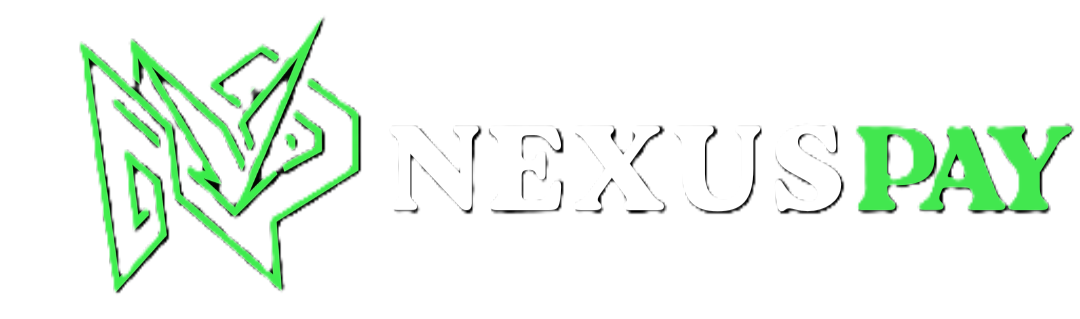
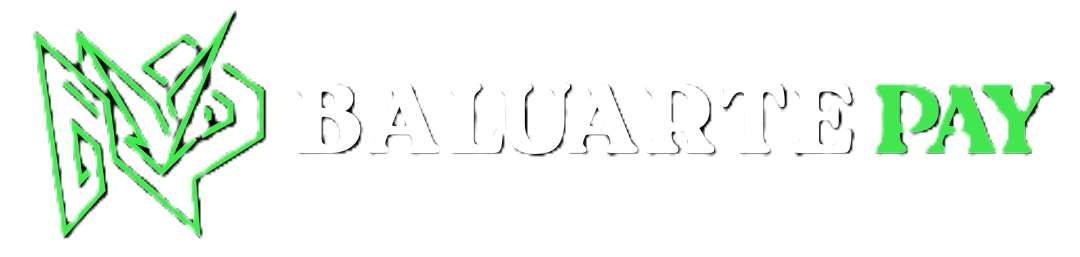
baluaartpauyi

Changed region(s): [[0.0306, 0.0311, 1.0, 0.9339], [0.3667, 0.6537, 0.3972, 0.6848]]

diff --git a/script.js b/script.js
@@ -533,7 +533,7 @@ if(!prefersReducedMotion){
       'hero.subhead':'Integre nosso gateway de pagamento com segurança de ponta e processe transações na velocidade da luz.',
       'hero.cta':'Comece Agora',
       'hero.docs':'Ver Documentação',
-      'features.title':'Por que NexusPay',
+      'features.title':'Por que Baluarte Pay',
       'features.cards.security.title':'Segurança de Nível Superior',
       'features.cards.security.text':'Criptografia avançada, detecção de fraude em tempo real e conformidade total com PCI DSS.',
       'features.cards.speed.title':'Velocidade de Transação',
@@ -544,17 +544,17 @@ if(!prefersReducedMotion){
       'features.cards.fees.text':'Sem surpresas: preços claros, relatórios detalhados e otimização de custos.',
       'how.title':'Como Funciona',
       'how.diagram.checkout':'Checkout',
-      'how.diagram.nexus':'NexusPay',
+      'how.diagram.nexus':'Baluarte Pay',
       'how.diagram.bank':'Banco',
       'testimonials.title':'O que dizem nossos clientes',
-      'testimonials.1.text':'“Aumentamos a taxa de aprovação em 14% com a NexusPay. Integração simples e performance incrível.”',
+      'testimonials.1.text':'“Aumentamos a taxa de aprovação em 14% com a Baluarte Pay. Integração simples e performance incrível.”',
       'testimonials.1.author':'Marina Alves — CTO, LumenShop',
       'testimonials.2.text':'“Suporte impecável e uma plataforma robusta. A latência caiu drasticamente.”',
       'testimonials.2.author':'Rafael Costa — Head de Pagamentos, VelozBank',
       'testimonials.3.text':'“Transparência nas taxas e dashboards completos. Decisão fácil para nosso time.”',
       'testimonials.3.author':'Ana Ribeiro — CFO, NovaMarket',
       'cta.title':'Pronto para acelerar seus pagamentos?',
-      'cta.text':'Integre o NexusPay hoje mesmo e ofereça a melhor experiência para seus clientes.',
+      'cta.text':'Integre o Baluarte Pay hoje mesmo e ofereça a melhor experiência para seus clientes.',
       'cta.docs':'Ver Documentação',
       'contact.title':'Entre em Contato',
       'contact.subtitle':'Envie uma mensagem e retornaremos rapidamente pelo WhatsApp.',
@@ -570,7 +570,7 @@ if(!prefersReducedMotion){
       'footer.terms':'Termos',
       'footer.privacy':'Privacidade',
       'footer.status':'Status',
-      'footer.copyright':' 2023 NexusPay. Todos os direitos reservados.'
+      'footer.copyright':' 2023 Baluarte Pay. Todos os direitos reservados.'
     },
     en: {
       'nav.features':'Features',
@@ -582,7 +582,7 @@ if(!prefersReducedMotion){
       'hero.subhead':'Integrate our payment gateway with top-tier security and process transactions at the speed of light.',
       'hero.cta':'Get Started',
       'hero.docs':'See Docs',
-      'features.title':'Why NexusPay',
+      'features.title':'Why Baluarte Pay',
       'features.cards.security.title':'Enterprise-grade Security',
       'features.cards.security.text':'Advanced encryption, real-time fraud detection, and full PCI DSS compliance.',
       'features.cards.speed.title':'Transaction Speed',
@@ -593,17 +593,17 @@ if(!prefersReducedMotion){
       'features.cards.fees.text':'No surprises: clear pricing, detailed reports, and cost optimization.',
       'how.title':'How It Works',
       'how.diagram.checkout':'Checkout',
-      'how.diagram.nexus':'NexusPay',
+      'how.diagram.nexus':'Baluarte Pay',
       'how.diagram.bank':'Bank',
       'testimonials.title':'What our customers say',
-      'testimonials.1.text':'“We increased approval rate by 14% with NexusPay. Simple integration and amazing performance.”',
+      'testimonials.1.text':'“We increased approval rate by 14% with Baluarte Pay. Simple integration and amazing performance.”',
       'testimonials.1.author':'Marina Alves — CTO, LumenShop',
       'testimonials.2.text':'“Impeccable support and a robust platform. Latency dropped drastically.”',
       'testimonials.2.author':'Rafael Costa — Head of Payments, VelozBank',
       'testimonials.3.text':'“Transparent fees and complete dashboards. An easy decision for our team.”',
       'testimonials.3.author':'Ana Ribeiro — CFO, NovaMarket',
       'cta.title':'Ready to accelerate your payments?',
-      'cta.text':'Integrate NexusPay today and deliver the best experience to your customers.',
+      'cta.text':'Integrate Baluarte Pay today and deliver the best experience to your customers.',
       'cta.docs':'See Docs',
       'contact.title':'Get in touch',
       'contact.subtitle':'Send a message and we will quickly reply via WhatsApp.',
@@ -619,7 +619,7 @@ if(!prefersReducedMotion){
       'footer.terms':'Terms',
       'footer.privacy':'Privacy',
       'footer.status':'Status',
-      'footer.copyright':' 2023 NexusPay. All rights reserved.'
+      'footer.copyright':' 2023 Baluarte Pay. All rights reserved.'
     },
     es: {
       'nav.features':'Recursos',
@@ -631,7 +631,7 @@ if(!prefersReducedMotion){
       'hero.subhead':'Integra nuestro gateway de pago con seguridad de primer nivel y procesa transacciones a la velocidad de la luz.',
       'hero.cta':'Comenzar',
       'hero.docs':'Ver Documentación',
-      'features.title':'Por qué NexusPay',
+      'features.title':'Por qué Baluarte Pay',
       'features.cards.security.title':'Seguridad de nivel superior',
       'features.cards.security.text':'Cifrado avanzado, detección de fraude en tiempo real y cumplimiento total de PCI DSS.',
       'features.cards.speed.title':'Velocidad de transacción',
@@ -642,17 +642,17 @@ if(!prefersReducedMotion){
       'features.cards.fees.text':'Sin sorpresas: precios claros, informes detallados y optimización de costos.',
       'how.title':'Cómo funciona',
       'how.diagram.checkout':'Checkout',
-      'how.diagram.nexus':'NexusPay',
+      'how.diagram.nexus':'Baluarte Pay',
       'how.diagram.bank':'Banco',
       'testimonials.title':'Qué dicen nuestros clientes',
-      'testimonials.1.text':'“Aumentamos la tasa de aprobación en 14% con NexusPay. Integración simple y rendimiento increíble.”',
+      'testimonials.1.text':'“Aumentamos la tasa de aprobación en 14% con Baluarte Pay. Integración simple y rendimiento increíble.”',
       'testimonials.1.author':'Marina Alves — CTO, LumenShop',
       'testimonials.2.text':'“Soporte impecable y una plataforma robusta. La latencia cayó drásticamente.”',
       'testimonials.2.author':'Rafael Costa — Head de Pagos, VelozBank',
       'testimonials.3.text':'“Transparencia en tarifas y paneles completos. Decisión fácil para nuestro equipo.”',
       'testimonials.3.author':'Ana Ribeiro — CFO, NovaMarket',
       'cta.title':'¿Listo para acelerar tus pagos?',
-      'cta.text':'Integra NexusPay hoy y ofrece la mejor experiencia a tus clientes.',
+      'cta.text':'Integra Baluarte Pay hoy y ofrece la mejor experiencia a tus clientes.',
       'cta.docs':'Ver Documentación',
       'contact.title':'Ponte en contacto',
       'contact.subtitle':'Envíanos un mensaje y responderemos rápidamente por WhatsApp.',
@@ -668,7 +668,7 @@ if(!prefersReducedMotion){
       'footer.terms':'Términos',
       'footer.privacy':'Privacidad',
       'footer.status':'Estado',
-      'footer.copyright':' 2023 NexusPay. Todos los derechos reservados.'
+      'footer.copyright':' 2023 Baluarte Pay. Todos los derechos reservados.'
     }
   }
 

diff --git a/index.html b/index.html
@@ -4,8 +4,8 @@
   <meta charset="UTF-8" />
   <meta name="viewport" content="width=device-width, initial-scale=1.0" />
   <meta http-equiv="X-UA-Compatible" content="IE=edge" />
-  <title>NexusPay — O Futuro das Transações</title>
-  <meta name="description" content="NexusPay: gateway de pagamento com segurança de ponta, velocidade extrema e tecnologia futurista." />
+  <title>Baluarte Pay — O Futuro das Transações</title>
+  <meta name="description" content="Baluarte Pay: gateway de pagamento com segurança de ponta, velocidade extrema e tecnologia futurista." />
   <link rel="preconnect" href="https://fonts.googleapis.com">
   <link rel="preconnect" href="https://fonts.gstatic.com" crossorigin>
   <link href="https://fonts.googleapis.com/css2?family=Inter:wght@300;400;500;600&family=Orbitron:wght@600;800&display=swap" rel="stylesheet">
@@ -15,7 +15,7 @@
 <body>
   <!-- Preloader -->
   <div id="preloader">
-    <img src="IMG/NEXUS PAY.png" alt="NexusPay" class="preloader-logo" />
+    <img src="IMG/NEXUS PAY.png" alt="Baluarte Pay" class="preloader-logo" />
     <div class="glitch-line"></div>
   </div>
 
@@ -26,7 +26,7 @@
   <header>
     <div class="container">
       <div class="brand">
-        <img src="IMG/NEXUS PAY.png" alt="NexusPay logo" class="logo" />
+        <img src="IMG/NEXUS PAY.png" alt="Baluarte Pay logo" class="logo" />
       </div>
       <button class="mobile-menu-toggle" aria-label="Abrir menu" aria-expanded="false">
         <img src="menu.png" alt="Menu" class="menu-icon">
@@ -86,7 +86,7 @@
 
   <!-- Features -->
   <section class="features container" id="features">
-    <h2 class="section-title" data-animate data-i18n="features.title">Por que NexusPay</h2>
+    <h2 class="section-title" data-animate data-i18n="features.title">Por que Baluarte Pay</h2>
     <div class="cards">
       <article class="card" data-animate>
         <div class="icon neon">
@@ -147,7 +147,7 @@
           </g>
           <g fill="#FFFFFF">
             <text x="110" y="118" text-anchor="middle" class="node-label" data-i18n="how.diagram.checkout">Checkout</text>
-            <text x="400" y="118" text-anchor="middle" class="node-label" data-i18n="how.diagram.nexus">NexusPay</text>
+            <text x="400" y="118" text-anchor="middle" class="node-label" data-i18n="how.diagram.nexus">Baluarte Pay</text>
             <text x="690" y="118" text-anchor="middle" class="node-label" data-i18n="how.diagram.bank">Banco</text>
           </g>
         </svg>
@@ -182,7 +182,7 @@ console.log(result.status) // 'authorized'</code></pre>
         <button class="nav prev" aria-label="Anterior">&#10094;</button>
         <div class="track">
           <div class="slide active">
-            <p data-i18n="testimonials.1.text">“Aumentamos a taxa de aprovação em 14% com a NexusPay. Integração simples e performance incrível.”</p>
+            <p data-i18n="testimonials.1.text">“Aumentamos a taxa de aprovação em 14% com a Baluarte Pay. Integração simples e performance incrível.”</p>
             <div class="author" data-i18n="testimonials.1.author">Marina Alves — CTO, LumenShop</div>
           </div>
           <div class="slide">
@@ -203,7 +203,7 @@ console.log(result.status) // 'authorized'</code></pre>
   <section class="cta-final" id="cta-final">
     <div class="container">
       <h2 class="section-title" data-animate data-i18n="cta.title">Pronto para acelerar seus pagamentos?</h2>
-      <p data-animate data-delay="100" data-i18n="cta.text">Integre o NexusPay hoje mesmo e ofereça a melhor experiência para seus clientes.</p>
+      <p data-animate data-delay="100" data-i18n="cta.text">Integre o Baluarte Pay hoje mesmo e ofereça a melhor experiência para seus clientes.</p>
       <div class="actions" data-animate data-delay="200">
         <a href="#how" class="cta alt" data-i18n="cta.docs">Ver Documentação</a>
       </div>
@@ -243,7 +243,7 @@ console.log(result.status) // 'authorized'</code></pre>
 
   <footer class="footer">
     <div class="container">
-      <span data-i18n="footer.copyright"> 2023 NexusPay. Todos os direitos reservados.</span>
+      <span data-i18n="footer.copyright"> 2023 Baluarte Pay. Todos os direitos reservados.</span>
       <div class="footer-links">
         <a href="#" data-i18n="footer.terms">Termos</a>
         <a href="#" data-i18n="footer.privacy">Privacidade</a>
